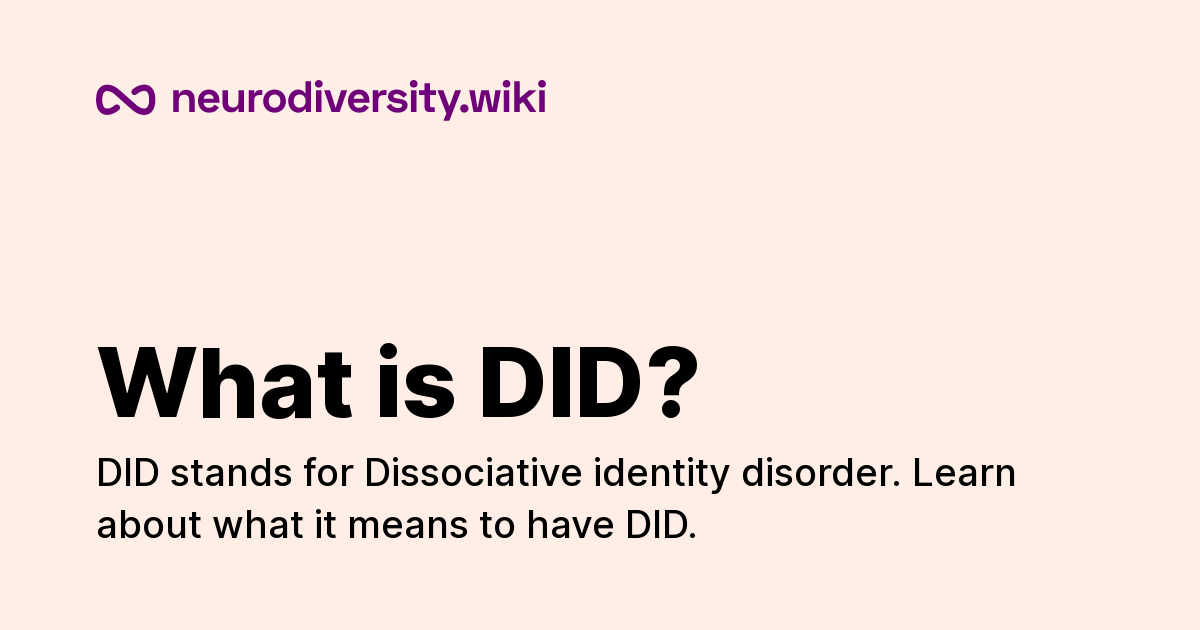
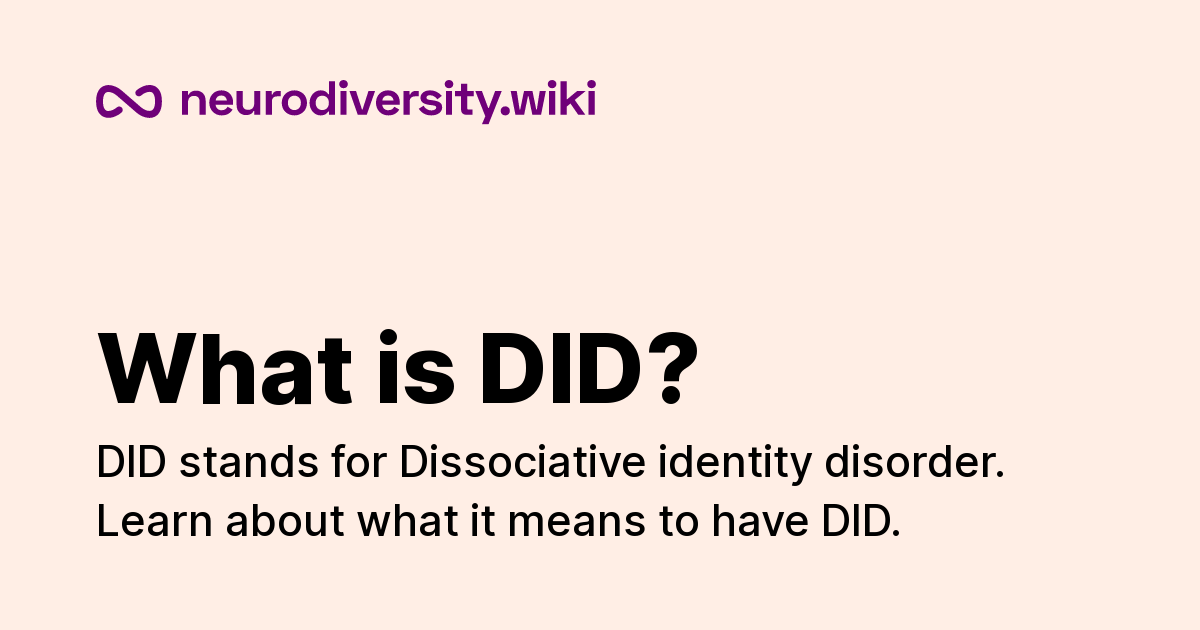
Slightly adjust opengraph images

Changed region(s): [[0.0617, 0.6937, 0.8633, 0.8746], [0.0617, 0.5127, 0.5858, 0.6635], [0.0925, 0.1206, 0.4933, 0.2111]]

diff --git a/pages/_ogimage/default.tsx b/pages/_ogimage/default.tsx
@@ -10,10 +10,10 @@ export default function OgImageLayout() {
 
   return (
     <div className="w-[1200px] h-[630px] fixed top-0 left-0 bg-secondary py-20 px-24 flex flex-col justify-between">
-      <img src="/logos/logomark-primary.svg" className="w-[450px]" alt="" />
+      <img src="/logos/logomark-primary.svg" className="w-[500px]" alt="" />
       <div className="space-y-4">
         <h1 className="text-[6em] font-display font-extrabold leading-none">{title}</h1>
-        <h2 className="text-[2.4em] font-medium leading-snug">{description}</h2>
+        <h2 className="text-[2.7em] font-medium leading-snug">{description}</h2>
       </div>
     </div>
   );
